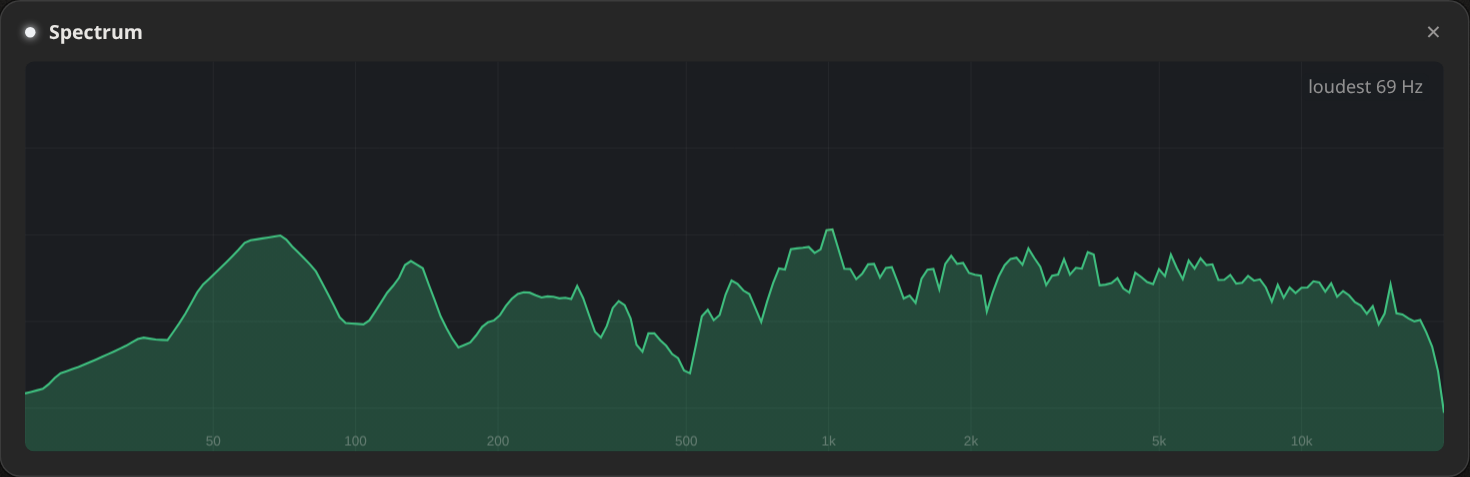
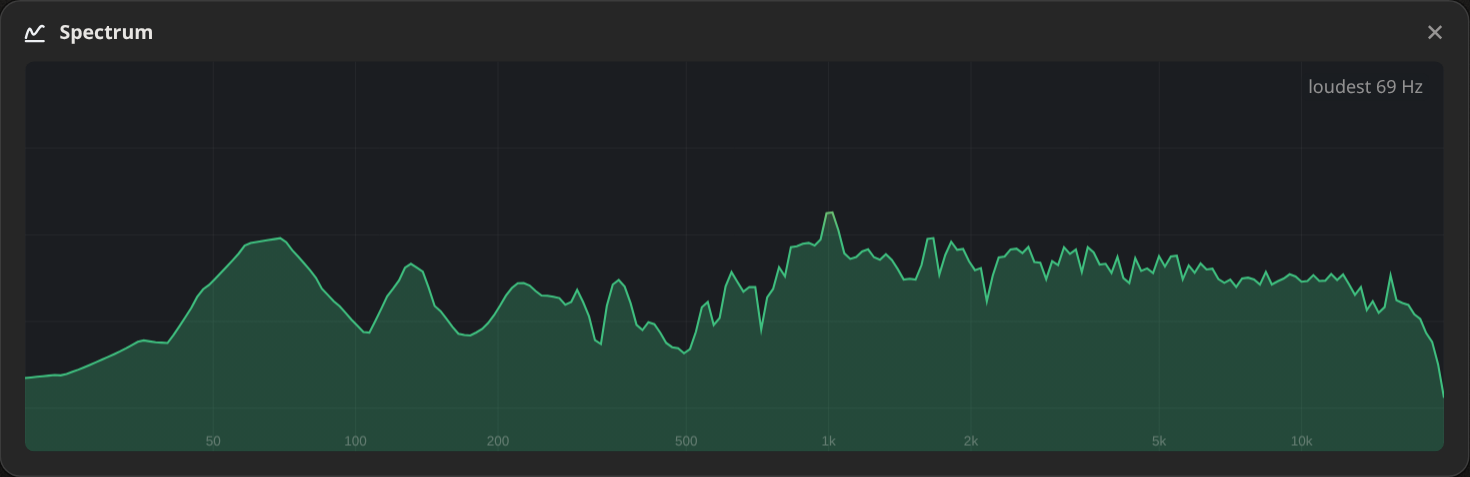
docs(readme): pictures rendered again, and a sound card's own panel shown
Every README picture rendered again from the page as it is now (bare
power and gear buttons, silver diagnostic outlines, a sound card's
gear in its bottom row). New: a sound card's panel (safety margin,
sample rate, scheduling, buffer headroom), since those moved out of the
Audio engine panel the text still put them in; the text says so now,
and mentions the wire's bar and a new effect opening its settings.

The latency path picture is tidied first, as the board picture is (the
owner's board had changed: the path ran from the far corner through a
portal), and framed above the path panel instead of nudged up by a
fixed 70 px (fit's new `below`), which had cut its top card off.

diff --git a/pipeboard/web/board.js b/pipeboard/web/board.js
@@ -1587,10 +1587,11 @@ const PB = (() => {
     return { x0, y0, x1, y1 };
   }
 
-  function fit(animate = true, keys = visible().map((c) => c.key), maxZ = 1.1) {
+  // below: room kept clear at the bottom (a docked panel's height).
+  function fit(animate = true, keys = visible().map((c) => c.key), maxZ = 1.1, below = 0) {
     const b = bounds(keys);
     if (!b) return;
-    const top = 70, pad = 50, W = innerWidth, H = innerHeight;
+    const top = 70, pad = 50, W = innerWidth, H = innerHeight - below;
     const z = Math.min(maxZ, Math.max(0.35, Math.min((W - 2 * pad) / (b.x1 - b.x0), (H - top - pad) / (b.y1 - b.y0))));
     const to = { z, x: (W - (b.x1 - b.x0) * z) / 2 - b.x0 * z, y: top + (H - top - pad - (b.y1 - b.y0) * z) / 2 - b.y0 * z };
     if (!animate || S.mode === "preview") { S.view = to; applyView(); return; }
@@ -3353,8 +3354,7 @@ const PB = (() => {
       openPath(key);
       const keys = S.model.latency?.[key]?.path;
       if (!keys) { S.errors.push(`pathView: no path into ${key}`); return; }
-      fit(false, keys, 1.1);
-      S.view.y -= 70; applyView(false);
+      fit(false, keys, 1.1, $("latpath").offsetHeight + 14);  // (the whole path above the panel)
       if (S.mode === "preview") { S.drops = Object.fromEntries(keys.map((k) => [k, 0])); showDrops(); }  // (no server: none counted)
     },
     // A new state arriving with the panel open: the same panel stays (no redraw, no animation).

diff --git a/scripts/readme.py b/scripts/readme.py
@@ -93,7 +93,10 @@ SHOTS = {
     "effects/denoise": ("machine", shots.equalized, shots.SHOTS["denoise"][3], ("panel", WIDE, ".eq-panel")),
     "engine": ("machine", None, "PB.debug.engineOpen({block: 256, blocks: 2, prio: 90, tsched: true}, true)",
                ("panel", WIDE, ".eng")),
-    "latency-path": ("machine", mine_plain, "PB.debug.pathView('Voice Mix')", ("still", WIDE)),
+    # A sound card's own panel (its gear): rate, margin, scheduling, how close it came to running dry.
+    "engine-card": ("machine", None, "PB.debug.fakeHeadroom('ok', {rates: [44100, 48000, 96000, 192000], dev_rate: 192000, "
+                    "fixed_rate: null}) || PB.debug.ifaceOpen() || PB.debug.fakeHeadroom()", ("panel", WIDE, ".iface-panel")),
+    "latency-path": ("machine", mine_plain, "PB.debug.tidy() || PB.debug.pathView('Voice Mix')", ("still", WIDE)),
     "diagnostics": ("machine", shots.diagnosed, "PB.debug.tidy() || PB.debug.fakeLive(99, null, false) || "
                     "PB.debug.fit(['music_player', 'pb:dwave01', 'pb:dster01', 'pb:dcount01', 'pb:dmeter01', 'pb:dspec01'])",
                     ("still", (1650, 1100))),

diff --git a/README.md b/README.md
@@ -58,14 +58,19 @@ Tick **Show latency** to see what each effect adds and the total delay arriving 
 Click a total to see where it comes from: every step on the way, the delay of each, and whether
 anything dropped out while the panel was open.
 
-![The path into a voice mix: the interface's buffer 9.3 ms, a limiter 5 ms, the rest nothing; 14.3 ms in all](docs/images/latency-path.png)
+![The path into a voice mix: the interface's buffer 4.0 ms, a limiter 5.0 ms, the rest nothing; 9.0 ms in all](docs/images/latency-path.png)
 
-The clock readout in the bar opens the **Audio engine**: the block size and the interface's safety
-margin, with the round trip they make, and under Advanced the scheduling (interrupts or timer),
-the CPU's deep idle states, the low-latency kernel options, and PipeWire's priorities. A change is tried for a minute and goes
-back by itself unless you keep it.
+The clock readout in the bar opens the **Audio engine**: the block size, with the round trip it
+makes, and under Advanced the CPU's deep idle states, the low-latency kernel options, and
+PipeWire's priorities. A change is tried for a minute and goes back by itself unless you keep it.
 
-<img src="docs/images/engine.png" alt="The Audio engine panel, Advanced open: block 256, a 2-block margin, 8.0 ms round trip, timer scheduling, idle states, priorities" width="460">
+<img src="docs/images/engine.png" alt="The Audio engine panel, Advanced open: block 256 and the 8.0 ms round trip it makes, the sound cards, idle states, kernel options, priorities" width="460">
+
+Each sound card has its own panel, the gear at the bottom of its card: its safety margin, sample
+rate and scheduling (interrupts or timer), and how close it came to running out of sound in the
+last minute.
+
+![A sound card's panel: a 1-block safety margin, 192 kHz, interrupts, and its buffer headroom over the last minute](docs/images/engine-card.png)
 
 ## Diagnostics
 
@@ -111,10 +116,11 @@ young software, so expect rough edges.
 
 ## Using it
 
-- **Connect:** drag from an OUT socket to an IN socket. **Disconnect:** click a wire, then Delete;
-  or right-click a card › Disconnect to unplug it completely.
-- **Add:** right-click the board › Add node (effects, devices, apps). Drop a wire on empty board to
-  add something already connected.
+- **Connect:** drag from an OUT socket to an IN socket. **Disconnect:** click a wire, then Delete or
+  Disconnect in the bar that opens where you clicked (Insert puts a node in the middle of it); or
+  right-click a card › Disconnect to unplug it completely.
+- **Add:** right-click the board › Add node (effects, devices, apps); a new effect opens its
+  settings at once. Drop a wire on empty board to add something already connected.
 - **Numbers:** scroll or type, Enter applies, Esc cancels.
 - **Move around:** drag to pan, scroll to zoom, **F** to fit, **Tidy** to lay out by signal flow
   (see [Portals](#portals)). **Wires** sets how they show the sound: still, flowing, or instant.
